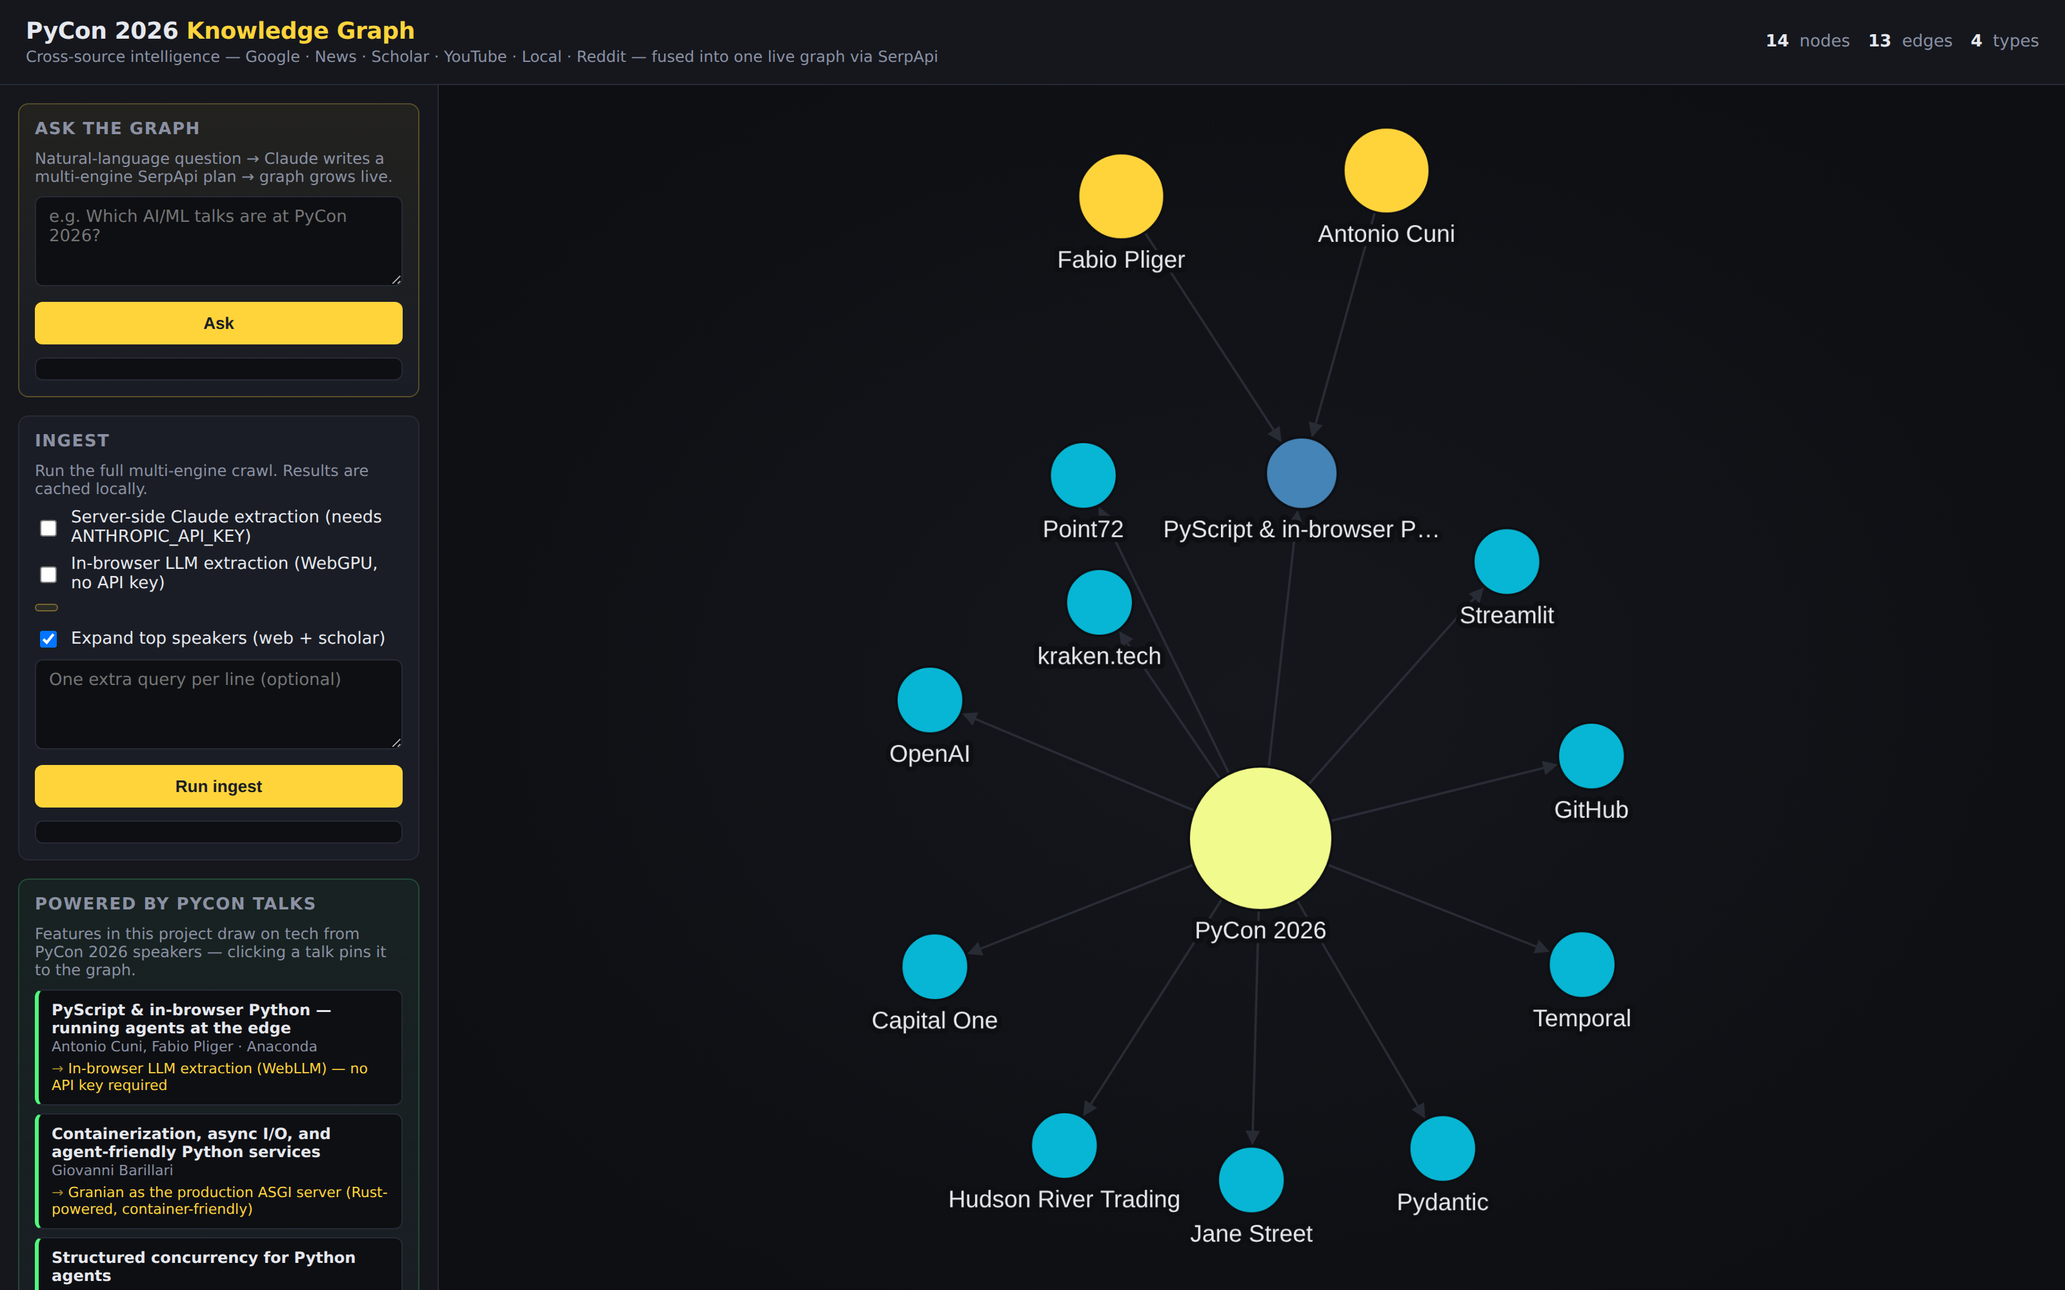
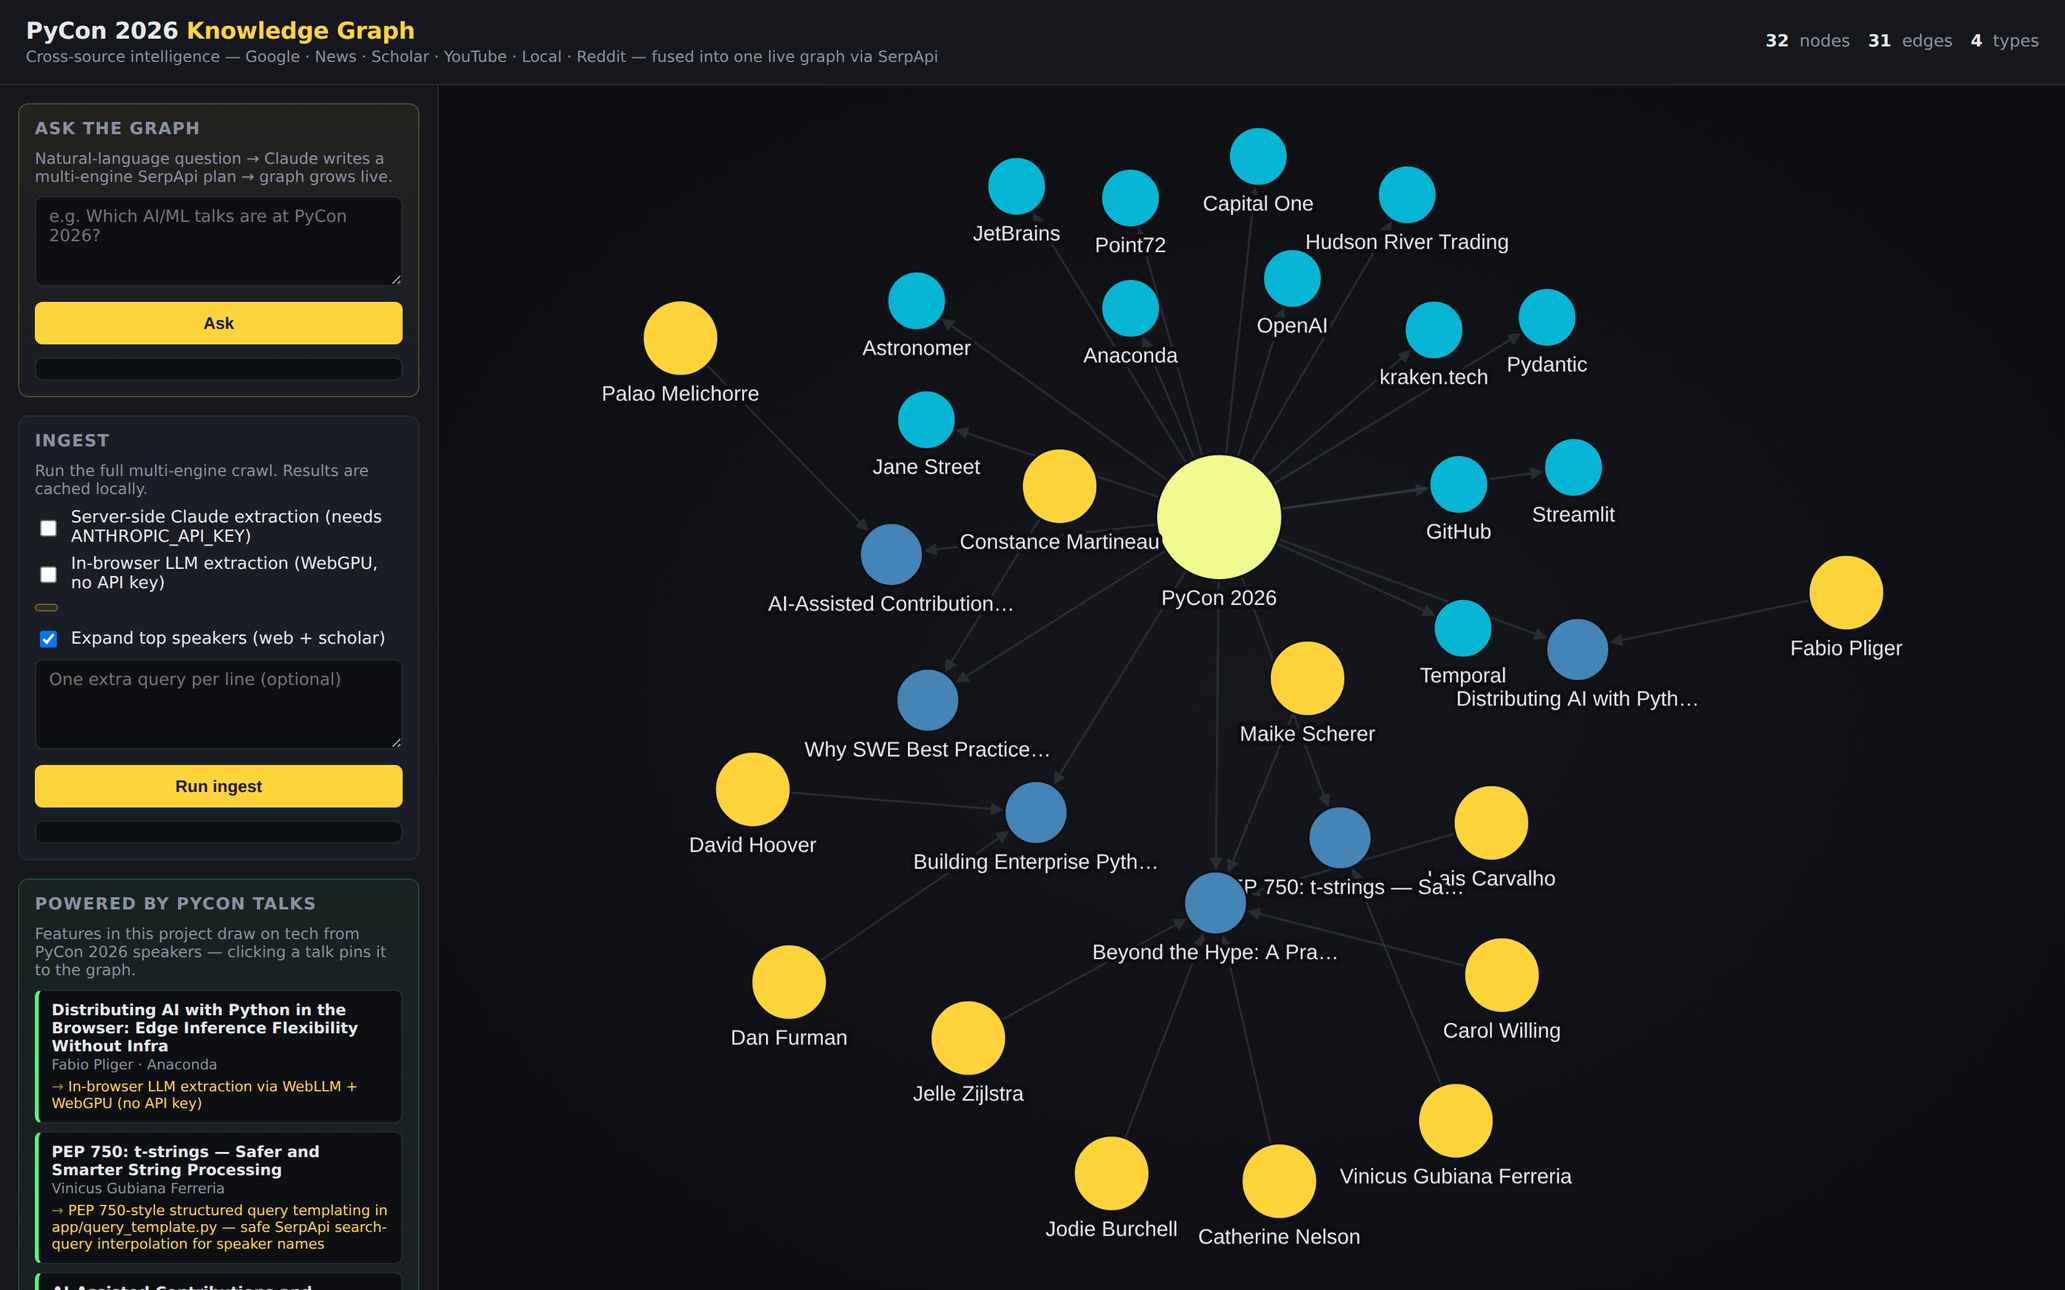
Wire real PyCon 2026 talks + speakers from curator's notes
Replaces the placeholder inspirations (granian/anyio speculation) with
the six talks actually attended at PyCon US 2026, with real speakers
and per-talk attributions of where each idea lands in the codebase:

- Fabio Pliger (Anaconda) — PyScript / edge AI → WebLLM extraction
- Vinicus Gubiana Ferreria — PEP 750 t-strings → new query_template.py
  with safe_query() for context-aware SerpApi query interpolation,
  now used in the speaker expansion path
- Palao Melichorre (Django) — AI-assisted contributions → multi-backend
  extraction (judge the code, not the coder)
- Carol Willing, Catherine Nelson, Jelle Zijlstra (OpenAI), Jodie Burchell
  (JetBrains), Lais Carvalho (Pydantic), Maike Scherer — panel on AI
  tool usage → Ask-the-graph agentic loop
- Dan Furman, David Hoover (Capital One) — Modern enterprise Python
  libs → layered abstraction
- Constance Martineau (Astronomer) — SWE practices fail in DE →
  provenance-first design

Pre-seed expanded to 32 anchor nodes: the event, 13 sponsors (added
Anaconda, JetBrains, Astronomer), all 12 known speakers, and all 6
talks with presents/features edges wired in. Graph boots with real
substance before the first crawl.

diff --git a/app/inspirations.py b/app/inspirations.py
@@ -1,51 +1,77 @@
-"""Talks, sponsors, and tech from PyCon US 2026 that this project draws on.
+"""Talks, speakers, sponsors, and tech from PyCon US 2026 that this project draws on.
 
-Each entry in INSPIRATIONS shows up in the sidebar under "Powered by PyCon
-talks" and can be pinned into the graph as a real `talk` node with the
+INSPIRATIONS list = the six talks attended (per the curator's notes), each
+mapped to where in this codebase that talk's ideas / tech show up. Each entry
+is pinnable from the sidebar into the graph as a real `talk` node with the
 speaker(s) attached.
 
-KNOWN_SPONSORS is pre-seeded into the graph on startup so it never starts
-empty — and when later crawls find news/pages about them, the same node
-collects the new sources.
+KNOWN_SPONSORS + KNOWN_SPEAKERS get pre-seeded into the graph on startup so
+it never starts empty — and when later crawls find news/pages about them,
+the same node collects the new sources.
 
 The point: this app *participates in* the conference rather than just
 indexing it.
-
-Edit freely as you confirm names from the actual PyCon 2026 program.
 """
 from __future__ import annotations
+
 
 INSPIRATIONS: list[dict] = [
     {
         "tag": "pyscript",
-        "talk": "PyScript & in-browser Python — running agents at the edge",
-        "speakers": ["Antonio Cuni", "Fabio Pliger"],
+        "talk": "Distributing AI with Python in the Browser: Edge Inference Flexibility Without Infra",
+        "speakers": ["Fabio Pliger"],
         "affiliation": "Anaconda",
-        "url": "https://us.pycon.org/2026/",
-        "used_for": "In-browser LLM extraction (WebLLM) — no API key required",
+        "url": "https://us.pycon.org/2026/schedule/presentation/126/",
+        "used_for": "In-browser LLM extraction via WebLLM + WebGPU (no API key)",
     },
     {
-        "tag": "granian",
-        "talk": "Containerization, async I/O, and agent-friendly Python services",
-        "speakers": ["Giovanni Barillari"],  # Granian author — edit if you know the actual speaker
+        "tag": "pep750",
+        "talk": "PEP 750: t-strings — Safer and Smarter String Processing",
+        "speakers": ["Vinicus Gubiana Ferreria"],
         "affiliation": "—",
         "url": "https://us.pycon.org/2026/",
-        "used_for": "Granian as the production ASGI server (Rust-powered, container-friendly)",
+        "used_for": "PEP 750-style structured query templating in app/query_template.py — safe SerpApi search-query interpolation for speaker names",
     },
     {
-        "tag": "anyio",
-        "talk": "Structured concurrency for Python agents",
-        "speakers": ["—"],
-        "affiliation": "—",
+        "tag": "ai-contrib",
+        "talk": "AI-Assisted Contributions and Maintainer Load",
+        "speakers": ["Palao Melichorre"],
+        "affiliation": "Django",
         "url": "https://us.pycon.org/2026/",
-        "used_for": "anyio task groups to parallelize the multi-engine SerpApi ingest",
+        "used_for": "Multi-backend extraction (heuristic / Claude / WebLLM) — judge the code, not the coder: each backend's output is merged on equal terms",
+    },
+    {
+        "tag": "beyond-hype",
+        "talk": "Beyond the Hype: A Pragmatic Look at How Developers Actually Use AI Tools",
+        "speakers": [
+            "Carol Willing", "Catherine Nelson", "Jelle Zijlstra",
+            "Jodie Burchell", "Lais Carvalho", "Maike Scherer",
+        ],
+        "affiliation": "Panel — JetBrains, OpenAI, Pydantic, others",
+        "url": "https://us.pycon.org/2026/",
+        "used_for": "Ask-the-graph implements the agentic loop the panel described: generate plan → execute → evaluate → iterate, with the search results as the verifier",
+    },
+    {
+        "tag": "cap1",
+        "talk": "Building Enterprise Python Libraries in a Modern Way",
+        "speakers": ["Dan Furman", "David Hoover"],
+        "affiliation": "Capital One",
+        "url": "https://us.pycon.org/2026/",
+        "used_for": "Layered library abstraction — SerpApi engine wrappers → entity extractors → graph builder, each a clean layer (the Cap One ladder applied)",
+    },
+    {
+        "tag": "swe-vs-de",
+        "talk": "Why SWE Best Practices Fail in Data Engineering",
+        "speakers": ["Constance Martineau"],
+        "affiliation": "Astronomer",
+        "url": "https://us.pycon.org/2026/",
+        "used_for": "Provenance-first design — every node carries its source query and result snippet, because in data work the data is the variable, not the code",
     },
 ]
 
 
-# Sponsors and vendors confirmed at PyCon US 2026. Pre-seeded into the graph
-# so it boots with substance and matches incoming search results when the
-# crawl runs.
+# Sponsors confirmed at PyCon US 2026. Pre-seeded into the graph so live
+# crawls attach sources to existing nodes rather than create duplicates.
 KNOWN_SPONSORS: list[dict] = [
     {"label": "Temporal", "url": "https://temporal.io"},
     {"label": "GitHub", "url": "https://github.com"},
@@ -57,11 +83,34 @@ KNOWN_SPONSORS: list[dict] = [
     {"label": "OpenAI", "url": "https://openai.com"},
     {"label": "Capital One", "url": "https://www.capitalone.com"},
     {"label": "Point72", "url": "https://point72.com"},
+    {"label": "Anaconda", "url": "https://www.anaconda.com"},
+    {"label": "JetBrains", "url": "https://www.jetbrains.com"},
+    {"label": "Astronomer", "url": "https://www.astronomer.io"},
+]
+
+
+# Speakers from the talks attended (KNOWN_SPEAKERS) — also pre-seeded so any
+# follow-up Scholar/web crawl on them attaches sources to an existing node.
+KNOWN_SPEAKERS: list[dict] = [
+    {"label": "Fabio Pliger", "affiliation": "Anaconda"},
+    {"label": "Vinicus Gubiana Ferreria", "affiliation": "—"},
+    {"label": "Palao Melichorre", "affiliation": "Django"},
+    {"label": "Carol Willing", "affiliation": "PSF · Jupyter"},
+    {"label": "Catherine Nelson", "affiliation": "—"},
+    {"label": "Jelle Zijlstra", "affiliation": "OpenAI"},
+    {"label": "Jodie Burchell", "affiliation": "JetBrains"},
+    {"label": "Lais Carvalho", "affiliation": "Pydantic"},
+    {"label": "Maike Scherer", "affiliation": "American Airlines"},
+    {"label": "Dan Furman", "affiliation": "Capital One"},
+    {"label": "David Hoover", "affiliation": "Capital One"},
+    {"label": "Constance Martineau", "affiliation": "Astronomer"},
 ]
 
 
 def seed_known_entities(conn) -> int:
-    """Pre-load the PyCon 2026 event anchor + known sponsors. Idempotent."""
+    """Pre-load the PyCon 2026 event anchor + known sponsors + known speakers
+    + the attended talks. Idempotent — safe to call repeatedly.
+    """
     from . import db
     from .entity_extractor import _id_for
 
@@ -73,17 +122,54 @@ def seed_known_entities(conn) -> int:
         {"seed": True, "venue": "Long Beach Convention Center"},
     )
     count += 1
+
     for s in KNOWN_SPONSORS:
         node_id = _id_for("sponsor", s["label"])
-        db.upsert_node(
-            conn, node_id, "sponsor", s["label"], s.get("url"),
-            {"seed": True},
-        )
+        db.upsert_node(conn, node_id, "sponsor", s["label"], s.get("url"), {"seed": True})
         try:
             db.upsert_edge(conn, pycon_id, node_id, "sponsors")
         except Exception:
             pass
         count += 1
+
+    # Speakers we know are on the program
+    for sp in KNOWN_SPEAKERS:
+        node_id = _id_for("speaker", sp["label"])
+        db.upsert_node(
+            conn, node_id, "speaker", sp["label"], None,
+            {"seed": True, "affiliation": sp.get("affiliation")},
+        )
+        count += 1
+
+    # The attended talks, linked to speakers and to the event
+    for item in INSPIRATIONS:
+        talk_label = (item.get("talk") or "")[:140]
+        if not talk_label:
+            continue
+        talk_id = _id_for("talk", talk_label)
+        db.upsert_node(
+            conn, talk_id, "talk", talk_label, item.get("url"),
+            {
+                "seed": True,
+                "affiliation": item.get("affiliation"),
+                "used_for": item.get("used_for"),
+                "tag": item.get("tag"),
+            },
+        )
+        count += 1
+        try:
+            db.upsert_edge(conn, pycon_id, talk_id, "features")
+        except Exception:
+            pass
+        for sp in item.get("speakers") or []:
+            if not sp or sp == "—":
+                continue
+            sp_id = _id_for("speaker", sp)
+            db.upsert_node(conn, sp_id, "speaker", sp, None, {"seed": True})
+            try:
+                db.upsert_edge(conn, sp_id, talk_id, "presents")
+            except Exception:
+                pass
     return count
 
 

diff --git a/app/query_template.py b/app/query_template.py
@@ -1,0 +1,72 @@
+"""PEP 750-style structured query templating for SerpApi searches.
+
+Credit: PEP 750 ("t-strings") talk at PyCon US 2026, by Vinicus Gubiana Ferreria.
+
+PEP 750 ships in Python 3.14 as `string.templatelib`. The literal `t"..."`
+syntax requires the 3.14 parser, but the *idea* — defer rendering of an
+interpolated string so the processor can apply context-aware escaping per
+slot — works on any Python. This module is that idea, applied to SerpApi
+query construction.
+
+Why it matters here: the previous code interpolated speaker names into
+search queries with f-strings:
+
+    follow_up = f'"{speaker_label}" PyCon python'
+
+If a speaker label contains a stray double-quote, that f-string silently
+produces a malformed query (or worse, an injection that changes the search
+intent). The same SQL/XSS problem t-strings were designed to solve, just
+applied to search-engine queries.
+
+Usage:
+
+    >>> safe_query('"{speaker}" PyCon python', speaker='Carol "Cara" Willing')
+    '"Carol Cara Willing" PyCon python'
+"""
+from __future__ import annotations
+
+import re
+import string
+
+
+# Try the real 3.14 stdlib first; fall back to a polyfill on older Pythons.
+try:
+    from string.templatelib import Template  # noqa: F401  (3.14+)
+    HAS_TEMPLATELIB = True
+except ImportError:
+    HAS_TEMPLATELIB = False
+
+
+_BAD_QUERY_CHARS = re.compile(r'["\'\\\n\r\t]')
+
+
+def _escape_query_value(value: object) -> str:
+    """Context-aware escaper for a SerpApi search query slot.
+
+    Strip characters that would break out of the quoted phrase or confuse
+    the search engine. We don't want injections, just safe interpolation.
+    """
+    return _BAD_QUERY_CHARS.sub("", str(value)).strip()
+
+
+def safe_query(template: str, **values: object) -> str:
+    """Render `template` with named slots, escaping each value for SerpApi.
+
+    Slot syntax: `{name}` (same as `str.format`). The escape pass runs on
+    each slot *before* substitution — the structure stays in the template,
+    the user-supplied values get sanitized.
+
+    This is the t-strings pattern: defer rendering, hand the structure to
+    a context-aware processor, apply per-slot escaping. PEP 750 with a
+    polyfill for sub-3.14 Pythons.
+    """
+    formatter = string.Formatter()
+    out: list[str] = []
+    for literal, field, fmt, conv in formatter.parse(template):
+        if literal:
+            out.append(literal)
+        if field is not None:
+            if field not in values:
+                raise KeyError(f"safe_query: missing value for slot {field!r}")
+            out.append(_escape_query_value(values[field]))
+    return "".join(out)

diff --git a/app/graph_builder.py b/app/graph_builder.py
@@ -10,6 +10,7 @@ import anyio
 from . import db
 from .entity_extractor import Entity, Relation, _id_for, extract, extract_related
 from .inspirations import seed_known_entities
+from .query_template import safe_query
 from .serpapi_client import SerpApiClient
 
 log = logging.getLogger(__name__)
@@ -86,8 +87,17 @@ async def run_ingest(
             speakers = _top_speakers(max_speakers_to_expand)
             follow_ups: list[tuple[str, str, dict]] = []
             for speaker_label in speakers:
-                follow_ups.append((f'"{speaker_label}" PyCon python', "google", {}))
-                follow_ups.append((f'"{speaker_label}"', "google_scholar", {}))
+                # PEP 750-style safe templating — credit: Vinicus Gubiana
+                # Ferreria's PyCon 2026 t-strings talk. Keeps stray quotes
+                # or whitespace in a speaker name from breaking the query.
+                follow_ups.append((
+                    safe_query('"{speaker}" PyCon python', speaker=speaker_label),
+                    "google", {},
+                ))
+                follow_ups.append((
+                    safe_query('"{speaker}"', speaker=speaker_label),
+                    "google_scholar", {},
+                ))
             await _run_parallel(client, follow_ups, use_claude, stats)
 
     return stats

diff --git a/README.md b/README.md
@@ -125,21 +125,26 @@ Open <http://127.0.0.1:8765>. Three flows to try:
 
 ## Powered by PyCon talks
 
-This project leans on work from PyCon 2026 speakers. Each entry below is also surfaced in the sidebar — click to pin the talk + speaker(s) into the graph.
+This project draws directly on six talks attended at PyCon US 2026. Each one shows up in the sidebar — clicking pins the talk + speaker(s) into the graph as real nodes.
 
 | Talk | Speaker(s) | Used for |
 | --- | --- | --- |
-| PyScript & in-browser Python — running agents at the edge | Antonio Cuni, Fabio Pliger (Anaconda) | In-browser LLM extraction with WebLLM, no API key required |
-| Containerization, async I/O, and agent-friendly Python services | _talk attribution pending_ | Granian as the production ASGI runner |
-| Structured concurrency for Python agents | _talk attribution pending_ | `anyio` task groups for parallel multi-engine ingest |
+| [Distributing AI with Python in the Browser — Edge Inference Without Infra](https://us.pycon.org/2026/schedule/presentation/126/) | Fabio Pliger (Anaconda) | In-browser LLM extraction via WebLLM + WebGPU — no API key required |
+| PEP 750: t-strings — Safer and Smarter String Processing | Vinicus Gubiana Ferreria | PEP 750-style structured query templating in `app/query_template.py` — safe SerpApi search-query interpolation |
+| AI-Assisted Contributions and Maintainer Load | Palao Melichorre (Django) | Multi-backend extraction (heuristic / Claude / WebLLM) — judge the code, not the coder |
+| Beyond the Hype: How Developers Actually Use AI Tools (panel) | Carol Willing · Catherine Nelson · Jelle Zijlstra (OpenAI) · Jodie Burchell (JetBrains) · Lais Carvalho (Pydantic) · Maike Scherer (American Airlines) | Ask-the-graph mirrors the panel's agentic loop: plan → execute → evaluate → iterate, with search results as the verifier |
+| Building Enterprise Python Libraries in a Modern Way | Dan Furman · David Hoover (Capital One) | Layered library abstraction — engine wrappers → entity extractors → graph builder |
+| Why SWE Best Practices Fail in Data Engineering | Constance Martineau (Astronomer) | Provenance-first design — every node carries its source query and snippet, because in data work the data is the variable |
 
 _Edit `app/inspirations.py` to add or correct attributions._
 
-### Pre-seeded sponsors
+### Pre-seeded lineup
 
-The graph boots with 10 confirmed PyCon 2026 sponsors so it isn't empty before the first crawl, and so live searches that mention these organizations attach as sources to the existing nodes:
+The graph boots with 32 anchor nodes: the PyCon 2026 event, 13 confirmed sponsors, 12 speakers from attended talks, and the 6 talks themselves — so live crawls attach sources to existing nodes rather than create duplicates.
 
-Temporal · GitHub · Pydantic · Streamlit · kraken.tech · Jane Street · Hudson River Trading · OpenAI · Capital One · Point72
+**Sponsors:** Temporal · GitHub · Pydantic · Streamlit · kraken.tech · Jane Street · Hudson River Trading · OpenAI · Capital One · Point72 · Anaconda · JetBrains · Astronomer
+
+**Speakers seeded:** Fabio Pliger · Vinicus Gubiana Ferreria · Palao Melichorre · Carol Willing · Catherine Nelson · Jelle Zijlstra · Jodie Burchell · Lais Carvalho · Maike Scherer · Dan Furman · David Hoover · Constance Martineau
 
 ## API
 
@@ -186,7 +191,8 @@ app/
 ├── db.py                SQLite schema + helpers
 ├── serpapi_client.py    Async SerpApi wrapper, multi-engine, with disk cache
 ├── entity_extractor.py  Heuristic + Claude + PAA/related extraction
-├── inspirations.py      Pre-seeded sponsors + "Powered by PyCon talks"
+├── query_template.py    PEP 750-style safe query templating (credits: Vinicus' t-strings talk)
+├── inspirations.py      Pre-seeded sponsors/speakers/talks + "Powered by PyCon talks"
 ├── graph_builder.py     Parallel ingest (anyio) + Ask-the-graph orchestration
 └── main.py              FastAPI app — Granian-compatible
 
